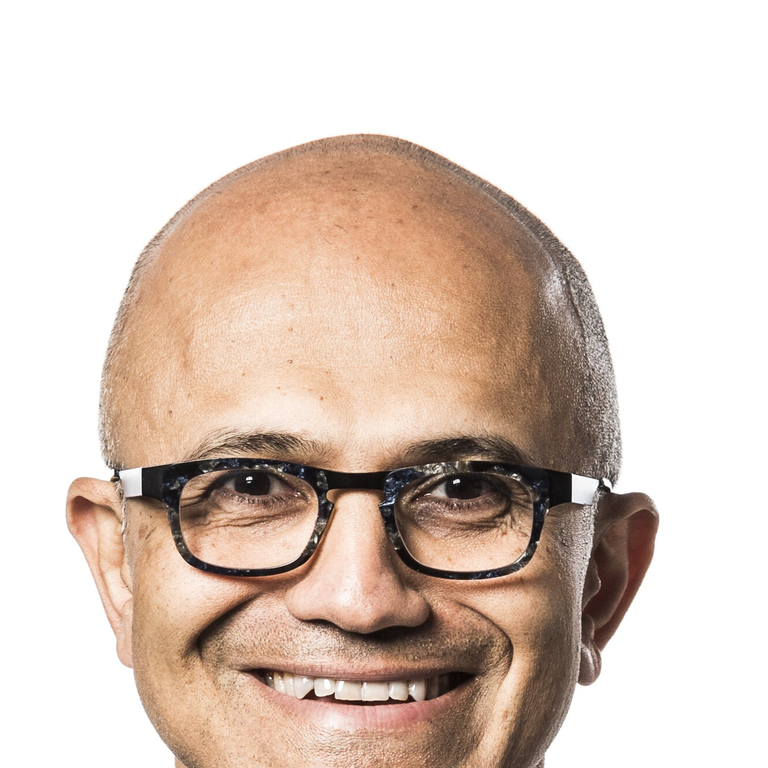
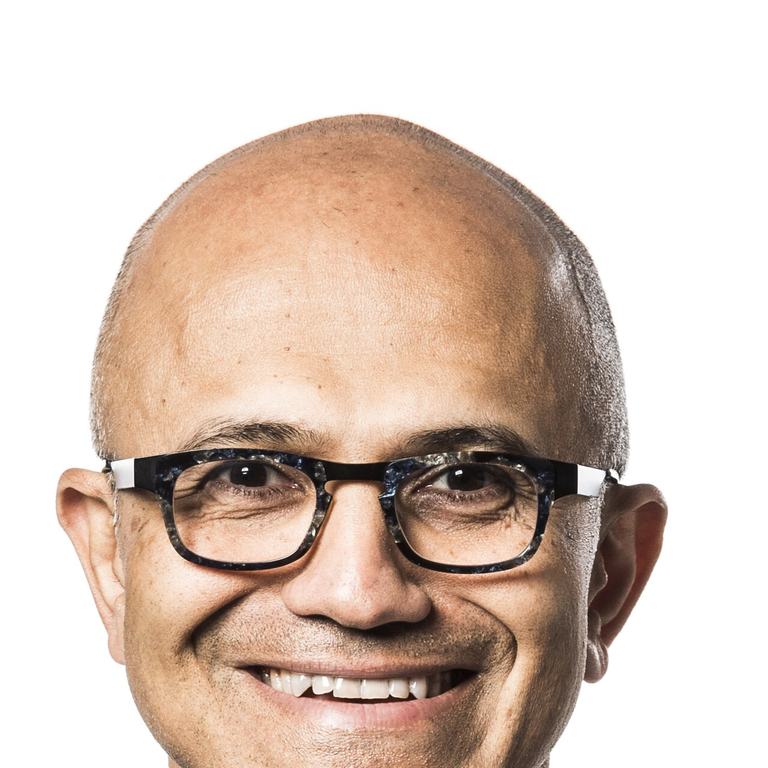
Tighten Steve Jobs’ quote crop away from the phone.
Keep the face centered in the circle after the bottom-right card placement.

Changed region(s): [[0.0625, 0.125, 0.875, 1.0]]

diff --git a/frontend/src/site/SiteShell.js b/frontend/src/site/SiteShell.js
@@ -201,25 +201,25 @@ function HomePanel({ onOpenTab, onOpenGame }) {
       text: 'Wear your failure as a badge of honor.',
       name: 'Sundar Pichai',
       role: 'CEO, Google',
-      photo: '/images/quotes/sundar-pichai.png?v=7',
+      photo: '/images/quotes/sundar-pichai.png?v=8',
     },
     {
       text: 'Our industry does not respect tradition — it only respects innovation.',
       name: 'Satya Nadella',
       role: 'CEO, Microsoft',
-      photo: '/images/quotes/satya-nadella.png?v=7',
+      photo: '/images/quotes/satya-nadella.png?v=8',
     },
     {
       text: 'Talk is cheap. Show me the code.',
       name: 'Linus Torvalds',
       role: 'Creator of Linux',
-      photo: '/images/quotes/linus-torvalds.png?v=7',
+      photo: '/images/quotes/linus-torvalds.png?v=8',
     },
     {
       text: 'Design is not just what it looks like and feels like. Design is how it works.',
       name: 'Steve Jobs',
       role: 'Co-founder, Apple',
-      photo: '/images/quotes/steve-jobs.png?v=7',
+      photo: '/images/quotes/steve-jobs.png?v=8',
     },
   ];
   const fieldNotes = [
